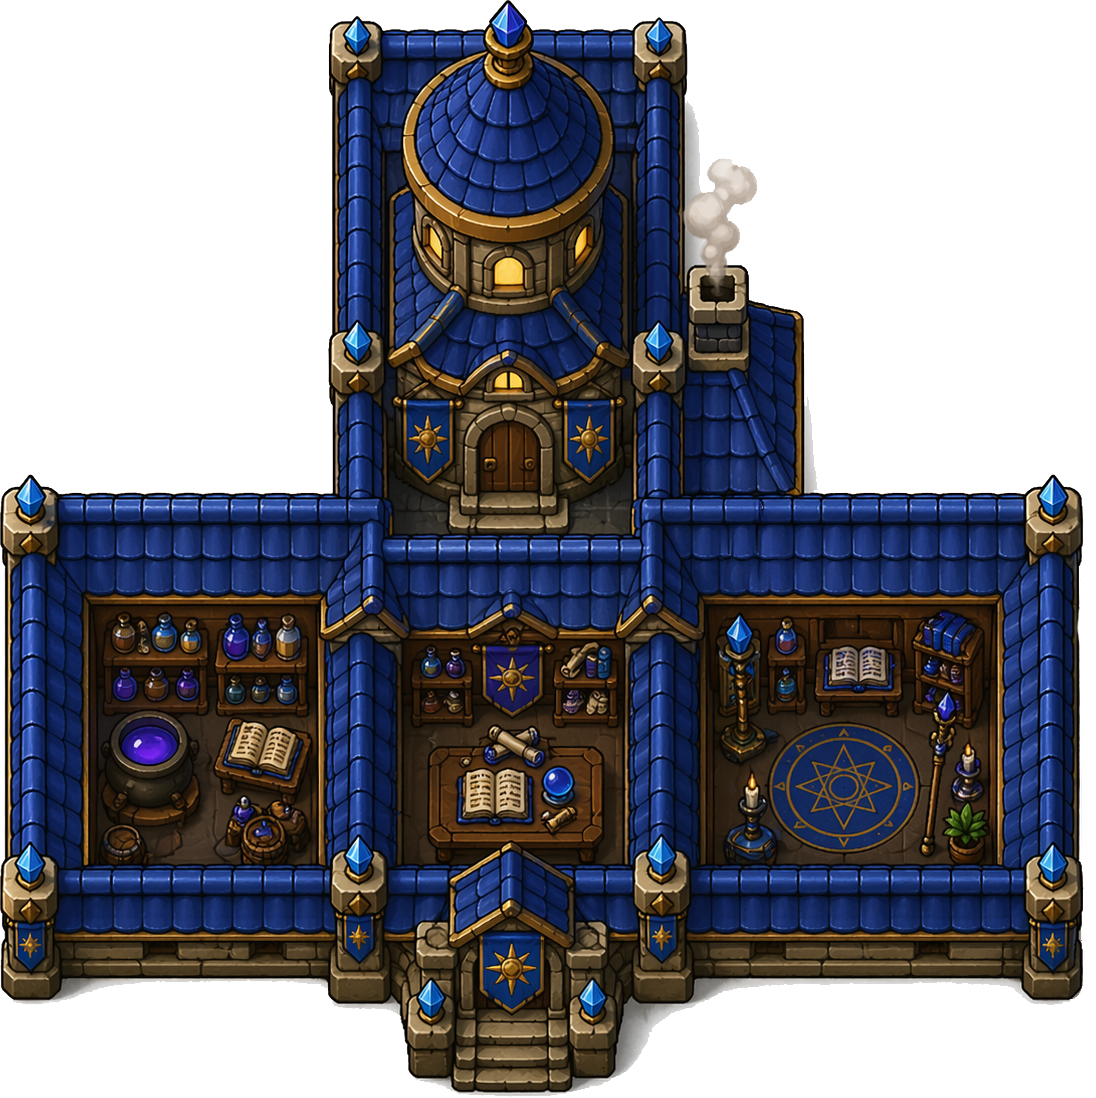
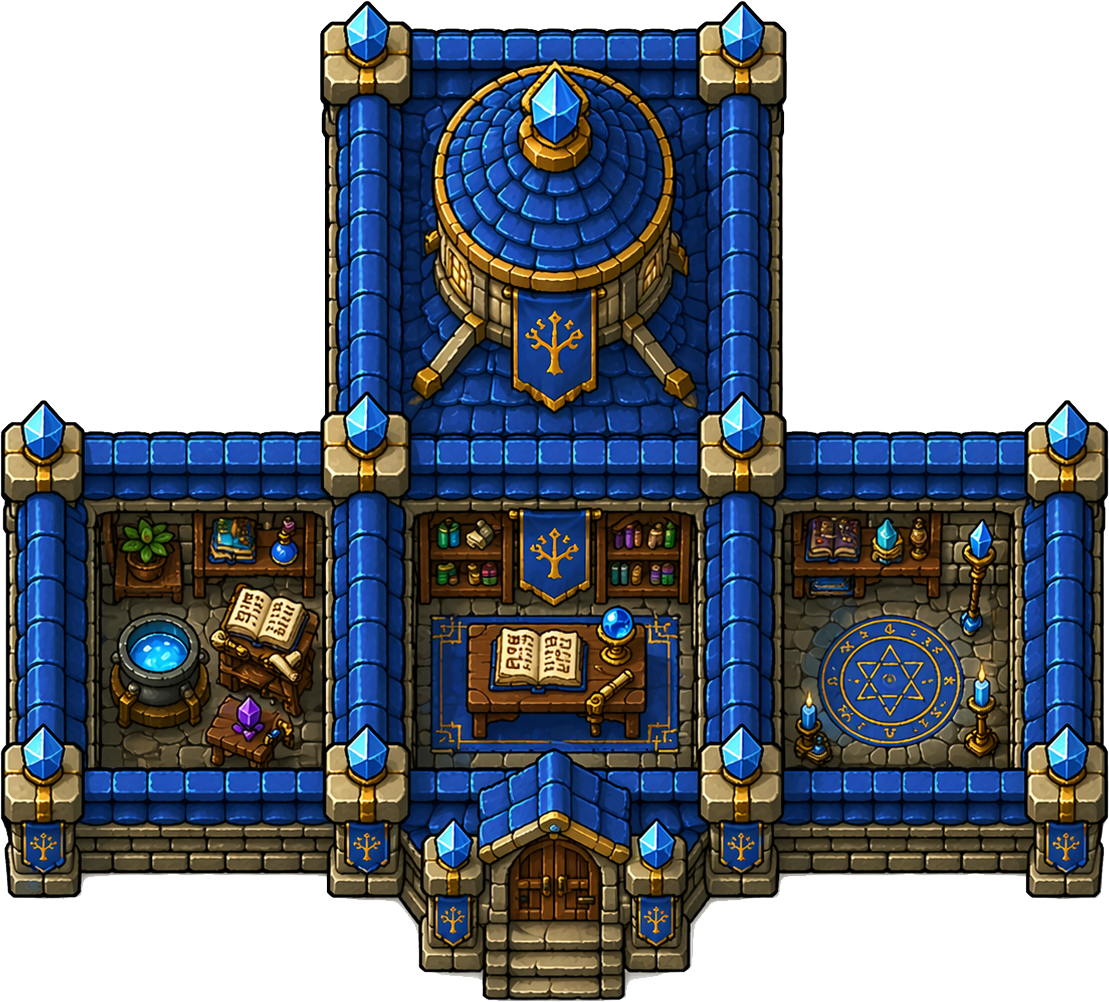
BD: replace mages_1 sprite with smaller blue version
Бампнул ?v=1 → ?v=2 на все building-спрайты чтобы обновился кэш.

diff --git a/games/bd/game.js b/games/bd/game.js
@@ -271,7 +271,7 @@ function loadBuildingImage(type, level, src) {
 }
 for (const t of ['barracks', 'archers', 'well', 'mages']) {
   for (let lvl = 1; lvl <= 3; lvl++) {
-    loadBuildingImage(t, lvl, 'img/' + t + '_' + lvl + '.png?v=1');
+    loadBuildingImage(t, lvl, 'img/' + t + '_' + lvl + '.png?v=2');
   }
 }
 function getBuildingSprite(type, level) {

diff --git a/games/bd/index.html b/games/bd/index.html
@@ -61,6 +61,6 @@
     </div>
 
   </div>
-  <script src="game.js?v=2026042226"></script>
+  <script src="game.js?v=2026042227"></script>
 </body>
 </html>
